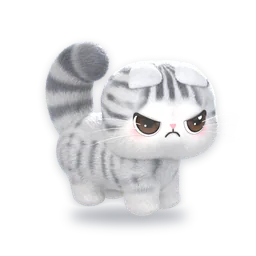
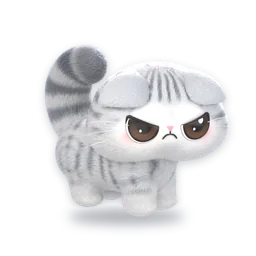
fix(помощник): голова котика — как на наброске
Форма подогнана к листу «эмоции» замером, а не на глаз: силуэт головы с
клеток Surprised, Excited, Sad и голова рендера сведены к одной высоте,
сравнивались ширина по высоте, место и размер глаз.

- голова шире высоты в ~1,45 раза (было 1,19), купол скруглён, щёки
  широкие книзу;
- ушки — сложенные клапаны на верхних углах кончиком вниз-наружу, серее
  мордочки (раньше торчали над макушкой);
- белок — тонкий серпик вокруг радужки: глаз почти целиком радужка, как на
  наброске; полосы на лбу тоньше и светлее.

Расхождение профиля головы с наброском 0,120 → 0,030 (доли высоты
головы). Все 14 кадров и значок перерендерены; CAT_HEAD_ONLY=1 и CAT_HEAD
в cat_models.py — для такой сверки.

diff --git a/src/components/assistant/cat/catLayout.js b/src/components/assistant/cat/catLayout.js
@@ -3,18 +3,18 @@
  * head — центр головы, top — макушка, forehead — лоб, left/right — бока головы,
  * mouth — рот, box — рамка силуэта [слева, сверху, справа, снизу]. */
 export const CAT_LAYOUT = {
-    normal: { box: [11.3, 16.8, 80.5, 85.2], forehead: [56.7, 26.9], head: [48.9, 36.2], left: [23.6, 27.5], mouth: [48.9, 42.0], right: [74.1, 27.5], top: [48.9, 16.9] },
-    'look-left': { box: [11.3, 16.8, 77.3, 85.2], forehead: [53.4, 27.0], head: [48.9, 36.2], left: [24.7, 26.9], mouth: [44.4, 42.0], right: [73.7, 28.1], top: [48.9, 16.9] },
-    'look-right': { box: [11.3, 16.8, 82.0, 85.2], forehead: [59.5, 26.7], head: [48.9, 36.2], left: [24.0, 28.1], mouth: [53.3, 42.0], right: [73.0, 26.9], top: [48.9, 16.9] },
-    blink: { box: [11.3, 16.8, 80.5, 85.2], forehead: [56.7, 26.9], head: [48.9, 36.2], left: [23.6, 27.5], mouth: [48.9, 42.0], right: [74.1, 27.5], top: [48.9, 16.9] },
-    happy: { box: [11.3, 14.8, 80.5, 85.2], forehead: [57.8, 25.0], head: [48.9, 35.7], left: [24.5, 24.7], mouth: [48.8, 38.6], right: [74.7, 29.1], top: [50.5, 16.4] },
-    excited: { box: [10.5, 17.2, 80.5, 84.4], forehead: [56.6, 26.0], head: [48.9, 37.0], left: [23.9, 28.3], mouth: [48.9, 40.3], right: [73.8, 28.3], top: [48.9, 17.9] },
-    sad: { box: [11.3, 19.1, 80.5, 85.2], forehead: [56.8, 33.9], head: [48.9, 38.4], left: [23.4, 30.4], mouth: [48.9, 49.4], right: [74.3, 30.4], top: [48.9, 20.5] },
-    angry: { box: [17.2, 16.0, 95.3, 84.8], forehead: [73.8, 35.3], head: [61.9, 42.5], left: [37.6, 34.8], mouth: [67.2, 51.2], right: [86.2, 33.2], top: [62.9, 23.6] },
-    surprised: { box: [11.3, 16.4, 80.5, 85.2], forehead: [56.7, 25.5], head: [48.9, 36.2], left: [23.7, 27.4], mouth: [48.9, 40.1], right: [74.0, 27.4], top: [48.9, 16.9] },
-    scared: { box: [10.2, 38.3, 80.9, 85.5], forehead: [56.8, 50.1], head: [48.9, 57.2], left: [23.5, 48.7], mouth: [48.9, 65.7], right: [74.2, 48.7], top: [48.9, 38.3] },
-    sleepy: { box: [10.9, 15.6, 80.5, 85.2], forehead: [58.1, 27.0], head: [48.9, 36.2], left: [24.9, 24.5], mouth: [48.6, 40.7], right: [74.9, 30.6], top: [51.2, 17.0] },
-    confused: { box: [11.3, 15.2, 82.4, 85.2], forehead: [55.2, 24.1], head: [48.9, 36.2], left: [22.3, 33.2], mouth: [51.2, 40.1], right: [71.4, 22.2], top: [44.7, 17.3] },
-    mischievous: { box: [17.2, 16.0, 94.9, 82.0], forehead: [75.3, 34.6], head: [61.9, 42.5], left: [39.3, 31.2], mouth: [68.1, 49.1], right: [86.0, 36.3], top: [64.7, 23.3] },
-    asleep: { box: [4.7, 42.6, 93.8, 89.1], forehead: [73.7, 57.7], head: [61.1, 62.2], left: [38.3, 51.5], mouth: [64.7, 72.4], right: [86.5, 56.5], top: [64.9, 44.1] },
+    normal: { box: [10.9, 17.6, 80.9, 85.5], forehead: [55.8, 28.1], head: [48.1, 37.3], left: [18.5, 28.7], mouth: [48.1, 43.0], right: [77.6, 28.7], top: [48.1, 18.3] },
+    'look-left': { box: [10.9, 17.6, 77.7, 85.5], forehead: [52.6, 28.2], head: [48.1, 37.3], left: [19.9, 28.0], mouth: [43.7, 42.9], right: [77.3, 29.4], top: [48.1, 18.3] },
+    'look-right': { box: [10.9, 17.6, 82.4, 85.5], forehead: [58.5, 27.9], head: [48.1, 37.3], left: [18.9, 29.4], mouth: [52.4, 42.9], right: [76.3, 28.0], top: [48.1, 18.3] },
+    blink: { box: [10.9, 17.6, 80.9, 85.5], forehead: [55.8, 28.1], head: [48.1, 37.3], left: [18.5, 28.7], mouth: [48.1, 43.0], right: [77.6, 28.7], top: [48.1, 18.3] },
+    happy: { box: [10.9, 16.8, 80.9, 85.5], forehead: [56.8, 26.2], head: [48.1, 36.7], left: [19.4, 25.5], mouth: [48.0, 39.6], right: [78.1, 30.7], top: [49.7, 17.8] },
+    excited: { box: [10.5, 18.8, 80.5, 84.8], forehead: [55.7, 27.2], head: [48.1, 38.1], left: [18.8, 29.5], mouth: [48.1, 41.3], right: [77.3, 29.5], top: [48.1, 19.2] },
+    sad: { box: [10.9, 19.9, 80.9, 85.5], forehead: [55.9, 35.0], head: [48.1, 39.4], left: [18.2, 31.5], mouth: [48.1, 50.3], right: [77.9, 31.5], top: [48.1, 21.8] },
+    angry: { box: [17.2, 17.2, 95.3, 85.2], forehead: [72.6, 36.4], head: [60.8, 43.5], left: [32.3, 36.0], mouth: [66.1, 52.0], right: [89.2, 34.2], top: [61.9, 24.8] },
+    surprised: { box: [10.9, 17.6, 80.9, 85.5], forehead: [55.8, 26.7], head: [48.1, 37.3], left: [18.5, 28.6], mouth: [48.1, 41.1], right: [77.6, 28.6], top: [48.1, 18.2] },
+    scared: { box: [9.8, 38.3, 80.9, 85.9], forehead: [55.8, 50.9], head: [48.1, 57.9], left: [18.3, 49.5], mouth: [48.1, 66.3], right: [77.8, 49.5], top: [48.1, 39.3] },
+    sleepy: { box: [10.9, 17.6, 80.9, 85.5], forehead: [57.1, 28.2], head: [48.1, 37.3], left: [19.8, 25.1], mouth: [47.8, 41.7], right: [78.4, 32.3], top: [50.4, 18.4] },
+    confused: { box: [10.9, 16.8, 82.8, 85.5], forehead: [54.3, 25.3], head: [48.1, 37.3], left: [17.3, 35.3], mouth: [50.3, 41.1], right: [74.8, 22.5], top: [43.9, 18.7] },
+    mischievous: { box: [16.8, 17.2, 94.9, 82.4], forehead: [74.1, 35.6], head: [60.8, 43.5], left: [34.1, 31.8], mouth: [66.9, 49.9], right: [88.7, 37.8], top: [63.7, 24.5] },
+    asleep: { box: [4.7, 43.0, 93.8, 89.5], forehead: [72.5, 58.4], head: [60.1, 62.8], left: [33.0, 51.8], mouth: [63.7, 72.8], right: [89.5, 57.7], top: [63.8, 45.0] },
 };

diff --git a/scripts/assistant_cat/cat_models.py b/scripts/assistant_cat/cat_models.py
@@ -54,6 +54,7 @@ SIZE = int(os.environ.get('CAT_SIZE', '800'))
 FUR = float(os.environ.get('CAT_FUR', '1'))          # густота шерсти; 0 — черновик без шерсти
 MB_RES = float(os.environ.get('CAT_MB_RES', '0.014'))
 ZOOM = float(os.environ.get('CAT_ZOOM', '1'))          # крупнее для черновиков
+HEAD_ONLY = os.environ.get('CAT_HEAD_ONLY') == '1'     # только голова — сверять форму с наброском
 FUR_PER_UNIT2 = 20000                                 # волосков на единицу площади при FUR=1
 
 # Поле метабола Blender: s·(1 − d²/R²)³, поверхность там, где сумма = 0.6. У
@@ -169,7 +170,7 @@ GREY = lin('#c4c7cd')
 GREY_MID = lin('#a8abb3')
 STRIPE = lin('#575a62')
 STRIPE_DARK = lin('#46494f')
-STRIPE_HEAD = lin('#4b4e56')
+STRIPE_HEAD = lin('#696c74')
 TAIL_RING = lin('#686b73')
 BLUSH = lin('#f4a3a8')
 PAD_PINK = lin('#f39aa4')
@@ -275,7 +276,7 @@ def fur_material():
     return mat
 
 
-IRIS = 0.88           # радиус радужки в долях глаза: белок — тонкий серпик, как на набросках
+IRIS = 0.88           # радиус радужки в долях глаза: белок — тонкий серпик, как на набросках (см. HEAD_SHAPE)
 
 
 def eye_material():
@@ -540,7 +541,8 @@ def pattern_head(part, P, Nn, t):
     warp = fbm(P, 3.0, seed=3) * 0.28
     # «М» на лбу: пять полос вдоль меридианов, к бровям тоньше и обрываются.
     taper = smoothstep(edge + 0.02, edge + 0.4, z)
-    fore = bands(theta / 0.3 + 0.5 + warp * 1.25, width=0.46 + 0.22 * taper, soft=0.12)
+    # Полосы на лбу — тоньше, чаще и волнистее, чем бруски «штрихкода» (как на наброске).
+    fore = bands(theta / 0.2 + 0.5 + warp * 1.5, width=0.3 + 0.2 * taper, soft=0.16)
     fore *= smoothstep(edge + 0.03, edge + 0.16, z) * smoothstep(0.78, 0.5, np.abs(theta))
     fore *= smoothstep(-0.35, 0.1, fbm(P, 5.5, seed=17) + 0.25 - 0.3 * smoothstep(0.75, 0.95, z))
     # По бокам головы — две поперечные полосы, рваные.
@@ -1093,20 +1095,25 @@ def build_ear(name, head, side, droop, mats, face):
     bm = bmesh.new()
     bmesh.ops.create_uvsphere(bm, u_segments=40, v_segments=20, radius=1.0)
     hp = head.params
-    w_half, h_half, thick = hp.get('ear_size', (0.3, 0.22, 0.065))
+    ear = HEAD_SHAPE['ear']
+    w_half, h_half, thick = hp.get('ear_size', ear['size'])
+    flare = math.radians(ear.get('flare', -16))       # клапан откинут на сгибе: низ отходит от головы
     for v in bm.verts:
         x, y, z = v.co
         w = 0.32 + 0.68 * (z + 1) / 2                    # широкий сгиб сверху, острый кончик внизу
         v.co = Vector((x * w_half * w, y * thick, z * h_half))
         v.co.y += 1.0 * (v.co.x ** 2) + 0.7 * (v.co.z ** 2)   # края загнуты к голове (+y)
+        dz = v.co.z - h_half
+        v.co.y, v.co.z = (v.co.y * math.cos(flare) - dz * math.sin(flare),
+                          h_half + v.co.y * math.sin(flare) + dz * math.cos(flare))
     mesh = bpy.data.meshes.new(name)
     bm.to_mesh(mesh)
     bm.free()
     mesh.shade_smooth()
     obj = bpy.data.objects.new(name, mesh)
     bpy.context.scene.collection.objects.link(obj)
-    az = math.radians(hp.get('ear_az', 50)) * side
-    el = math.radians(hp.get('ear_el', 50) - droop * 12)
+    az = math.radians(hp.get('ear_az', ear['az'])) * side
+    el = math.radians(hp.get('ear_el', ear['el']) - droop * 12)
     d_local = Vector((math.sin(az) * math.cos(el), -math.cos(az) * math.cos(el), math.sin(el)))
     R = head.frame.to_3x3()
     centre = head.frame.translation
@@ -1123,12 +1130,16 @@ def build_ear(name, head, side, droop, mats, face):
     y_axis = -normal
     x_axis = y_axis.cross(z_axis).normalized()
     basis = Matrix((x_axis, y_axis, z_axis)).transposed()
-    tilt = Matrix.Rotation(math.radians((hp.get('ear_tilt', 30) + droop * 16) * side), 3, normal)
-    obj.matrix_world = Matrix.Translation(loc + normal * hp.get('ear_lift', 0.035)) @ (tilt @ basis).to_4x4()
-    # Окрас — гладкий светло-серый, без полос (на набросках ушко однотонное).
+    tilt = Matrix.Rotation(math.radians((hp.get('ear_tilt', ear['tilt']) + droop * 16) * side), 3, normal)
+    obj.matrix_world = Matrix.Translation(loc + normal * hp.get('ear_lift', ear['lift'])) @ (tilt @ basis).to_4x4()
+    # Окрас — гладкий серый в тон «шапочки», без полос; у сгиба чуть темнее.
     P, Nn = mesh_arrays(obj)
     n = len(P)
-    col = np.tile(lin('#d8dadf'), (n, 1))
+    co = np.empty(n * 3)
+    mesh.vertices.foreach_get('co', co)
+    co = co.reshape(-1, 3)
+    col = np.tile(lin(ear.get('color', '#c3c6cc')), (n, 1))
+    col = mix_rows(col, np.tile(lin('#a9acb3'), (n, 1)), smoothstep(h_half * 0.2, h_half, co[:, 2]) * 0.55)
     attr = mesh.color_attributes.new('col', 'FLOAT_COLOR', 'POINT')
     attr.data.foreach_set('color', np.concatenate([col, np.ones((n, 1))], axis=1).astype(np.float32).ravel())
     mesh.materials.append(mats['skin'])
@@ -1138,7 +1149,26 @@ def build_ear(name, head, side, droop, mats, face):
 
 # ---------------------------------------------------------------- позы
 
-HEAD_RADII = (0.68, 0.6, 0.6)
+# Форма головы подогнана к наброскам «1 в 1» (просьба владельца 02.11.2026): силуэт
+# головы с листа (Surprised, Excited, Sad) и голова рендера (CAT_HEAD_ONLY=1) сведены
+# к одной высоте, сравнивалась полуширина по высоте и место/размер глаз. Итог: голова
+# шире высоты в ~1.45 раза, скруглённый купол, щёки широкие книзу, ушки — клапаны на
+# верхних углах кончиком вниз-наружу; разлёт глаз ~0.37 ширины головы, радужка ~0.2,
+# белок — тонкий серпик (на наброске глаз почти целиком радужка).
+# CAT_HEAD='{"radii": [...]}' переопределяет значения для такой подгонки без правки файла.
+HEAD_SHAPE = dict(
+    radii=(0.81, 0.6, 0.65),
+    temple=((0.3, 0.03, 0.04), (0.4, 0.44, 0.33), 1.45),
+    cheek=((0.42, -0.15, -0.2), (0.46, 0.34, 0.34), 1.9),
+    ear=dict(az=61, el=30, size=(0.39, 0.34, 0.075), tilt=46, lift=0.03, flare=-8),
+    eye=(0.36, -0.02, 0.212, 0.225),
+    iris=0.94,
+)
+if os.environ.get('CAT_HEAD'):
+    HEAD_SHAPE.update(json.loads(os.environ['CAT_HEAD']))
+HEAD_RADII = tuple(HEAD_SHAPE['radii'])
+IRIS = HEAD_SHAPE.get('iris', IRIS)
+HEAD_WIDEN = HEAD_RADII[0] / 0.68          # во сколько голова шире первой версии — румянец, усы
 
 
 def head_part(center, rot, face_params, droop=0.0):
@@ -1146,16 +1176,18 @@ def head_part(center, rot, face_params, droop=0.0):
     head = Part('head', 'head', frame, radii=HEAD_RADII, face=face_params, droop=droop)
     # Голова — широкий эллипсоид, щёчки и мордочка — элементы в её системе координат.
     head.local((0, 0, 0), HEAD_RADII)
+    (tx, ty, tz), t_radii, t_stiff = HEAD_SHAPE['temple']
+    (cx, cy, cz), c_radii, c_stiff = HEAD_SHAPE['cheek']
     for s in (-1, 1):
-        # Виски — голова круглая с широким лбом, а не «колокол» с узкой макушкой.
-        head.local((0.27 * s, 0.03, 0.15), (0.38, 0.44, 0.34), stiffness=1.45)
-        head.local((0.3 * s, -0.17, -0.26), (0.38, 0.32, 0.3), stiffness=1.8)
+        # Виски — широкий плоский верх, а не «колокол» с узкой макушкой; щёчки — пухлый низ.
+        head.local((tx * s, ty, tz), t_radii, stiffness=t_stiff)
+        head.local((cx * s, cy, cz), c_radii, stiffness=c_stiff)
     head.local((0, -0.42, -0.16), (0.26, 0.17, 0.17), stiffness=1.3)
     return head
 
 
 def default_face():
-    return dict(blush=(0.43, -0.14, 0.12))
+    return dict(blush=(0.43 * HEAD_WIDEN, -0.15, 0.13))
 
 
 def add_leg(parts, s, path, radii, outward, sock=0.72, stripes=3.2):
@@ -1343,7 +1375,7 @@ def pose_curl(face=None):
 
 # ---------------------------------------------------------------- мордочки
 
-EYE_CX, EYE_CY, EYE_RX, EYE_RY = 0.32, 0.0, 0.168, 0.18
+EYE_CX, EYE_CY, EYE_RX, EYE_RY = HEAD_SHAPE['eye']
 NOSE_Y = -0.052
 MOUTH_Y = NOSE_Y - 0.033            # от низа носа
 
@@ -1548,7 +1580,7 @@ def build_face(face, mats, spec):
 def whiskers(face, mats):
     for side in (-1, 1):
         for k, (v, tip_z, back) in enumerate(((-0.08, 0.12, 0.12), (-0.115, 0.0, 0.16), (-0.15, -0.13, 0.2))):
-            root = face.point(0.27 * side, v, 0.0)
+            root = face.point(0.27 * HEAD_WIDEN * side, v, 0.0)
             R = face.R
             pts = [root,
                    root + R @ Vector((0.26 * side, back * 0.4, tip_z * 0.45 + 0.03)),
@@ -1672,8 +1704,8 @@ def anchors(cam, head):
         'head': (0.0, 0.0, 0.0),
         'top': (0.0, 0.0, 0.66),
         'forehead': (0.26, -0.42, 0.36),
-        'left': (-0.86, 0.0, 0.3),
-        'right': (0.86, 0.0, 0.3),
+        'left': (-0.86 * HEAD_WIDEN, 0.0, 0.3),
+        'right': (0.86 * HEAD_WIDEN, 0.0, 0.3),
         'mouth': (0.0, -0.6, -0.12),
     }
     out = {}
@@ -1708,6 +1740,10 @@ def main():
             cam.location = centre + (cam.location - Vector((0.0, 0.0, 1.1))).normalized() * 14.0
             render_to(key)
             continue
+        if HEAD_ONLY:
+            body.hide_render = True
+            if bpy.data.objects.get('BodyFur'):
+                bpy.data.objects['BodyFur'].hide_render = True
         render_to(key)
         layout[key] = anchors(cam, head)
         with open(layout_path, 'w') as fh:
